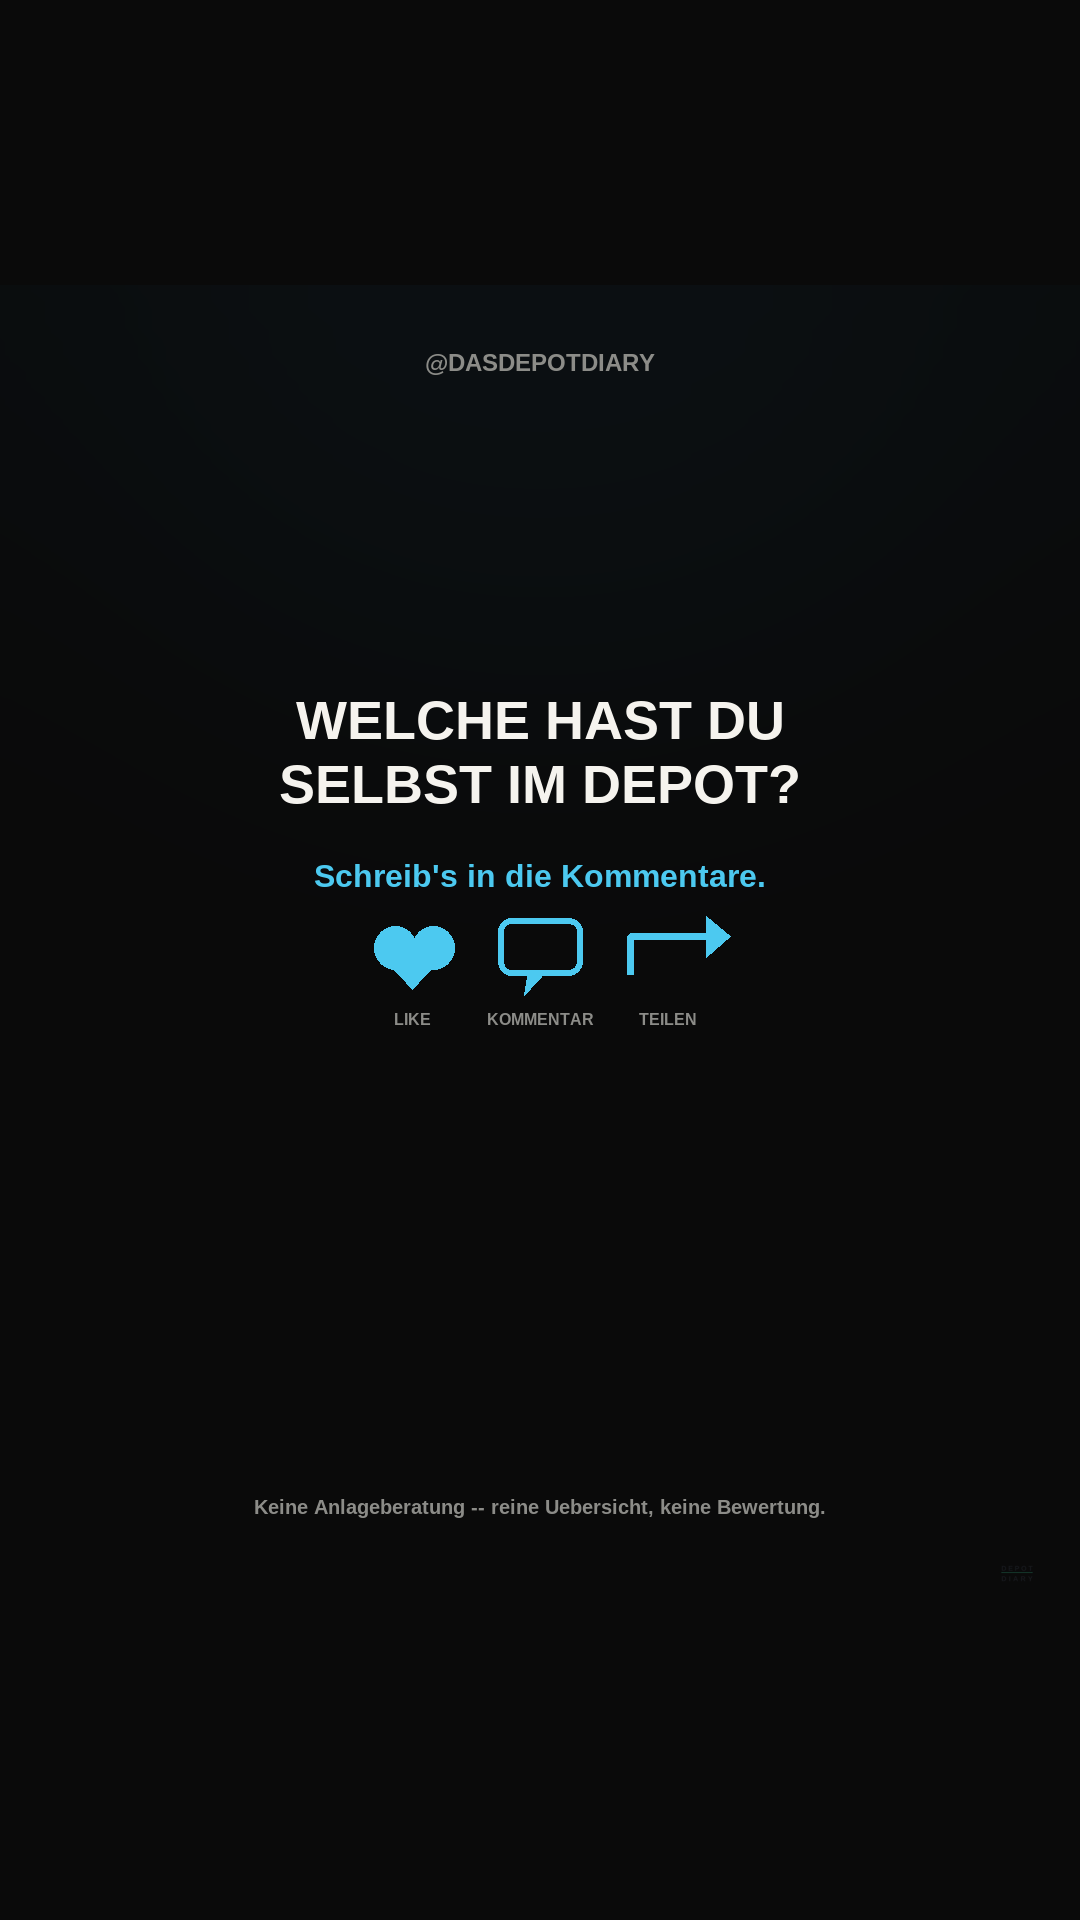
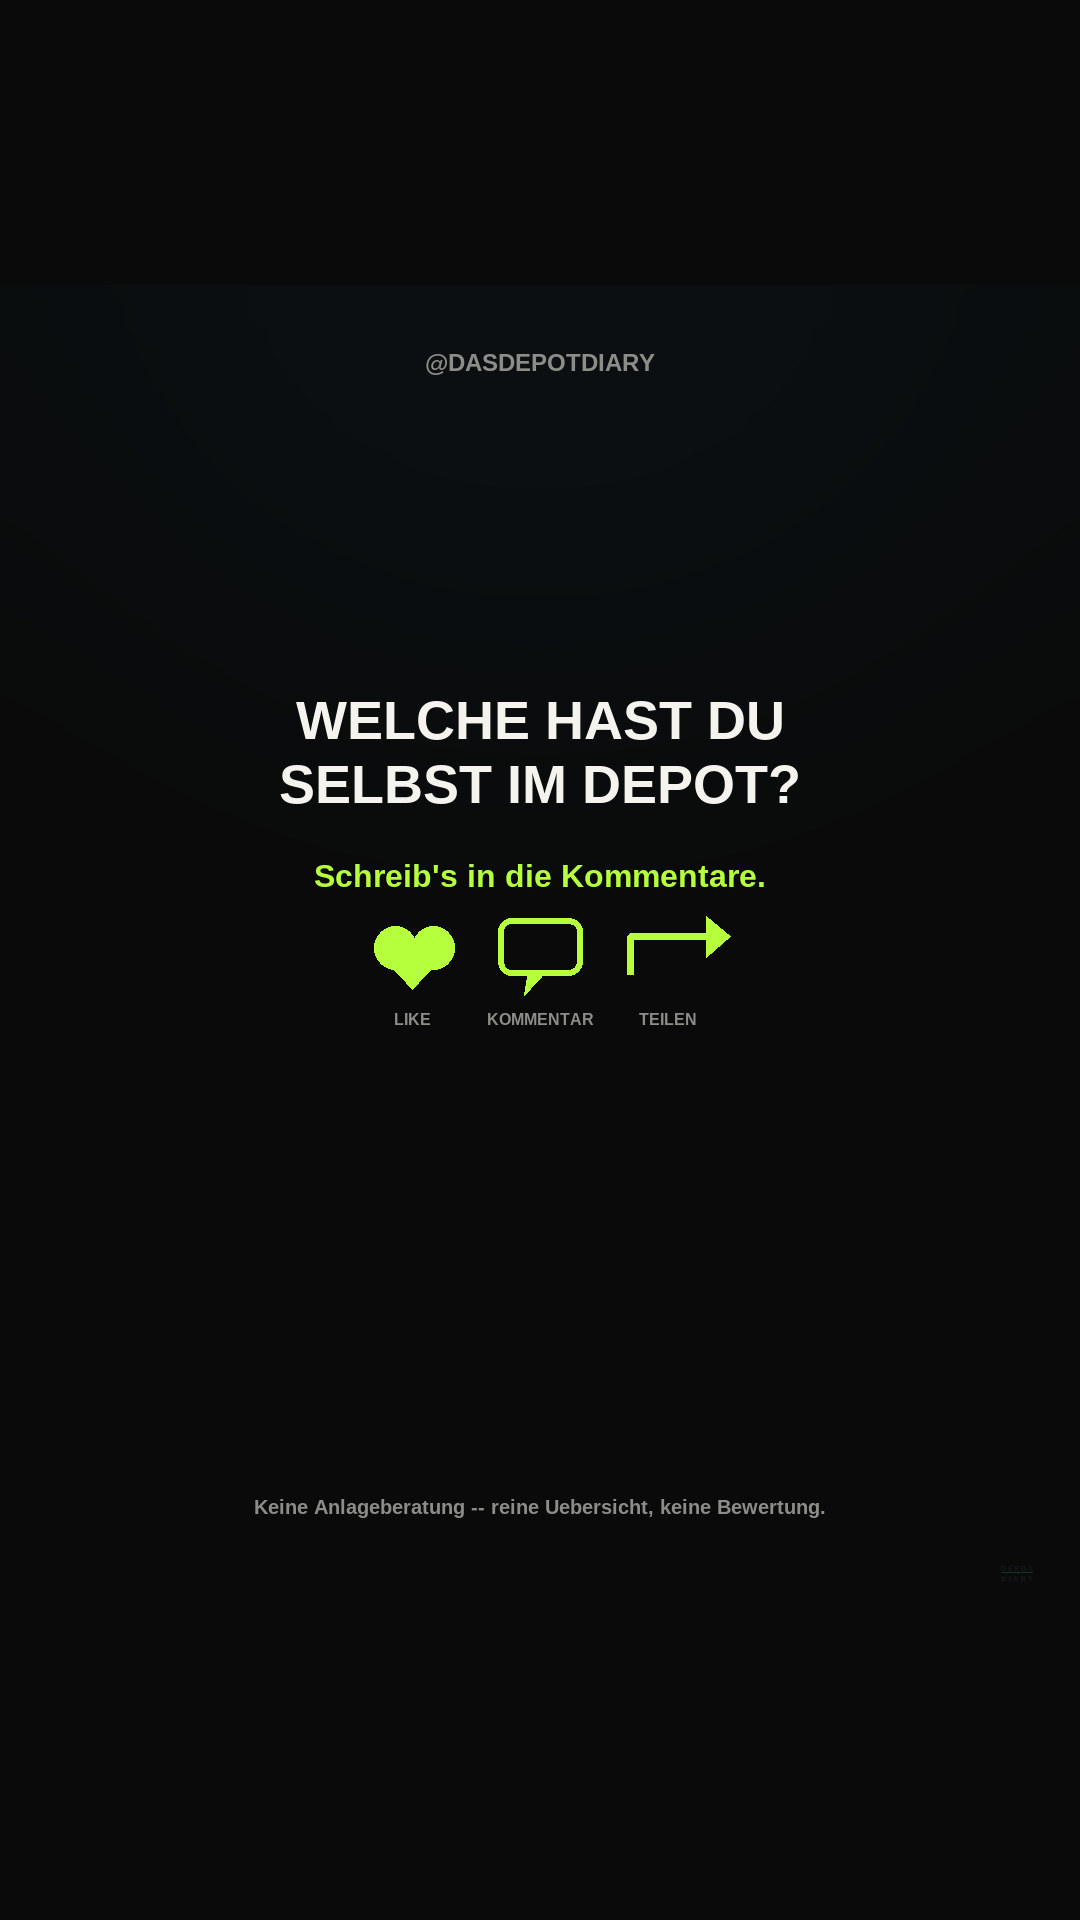
Akzentfarbe der Finanzhafen-Style-Titelfolien rotiert jetzt ebenfalls (5 grelle/kraeftige/helle Farben: Hellblau, Pink, Neongruen, Gelb, Violett), deterministisch per Post-Name -- gleiche Technik wie die Foto-Rotation. Alle vier Entwuerfe neu gerendert (KI-Infrastruktur ist fuer morgen 17 Uhr gequeu

Changed region(s): [[0.275, 0.4375, 0.7028, 0.5312]]

diff --git a/posts/format_wochenlogos.py b/posts/format_wochenlogos.py
@@ -45,7 +45,26 @@ CARD = "#161616"
 CARD_BORDER = "#2C2C2C"
 CREAM = "#F5F3EE"
 MUTED = "#8C8C88"
-ACCENT = "#4CC9F0"
+ACCENT = "#4CC9F0"  # Fallback/Default, siehe ACCENT_COLORS fuer die Rotation
+
+# Rotierender Pool greller, kraeftiger, heller Akzentfarben -- Nutzerwunsch:
+# "Farbe der Schrift auch jedes mal abaendern, grelle kraeftige helle Farben".
+# Deterministisch per Post-Name gewaehlt (siehe photo_for), nicht zufaellig.
+ACCENT_COLORS = [
+    "#4CC9F0",  # hellblau
+    "#FF3EA5",  # knalliges pink
+    "#B6FF3D",  # neongruen
+    "#FFDD3D",  # kraeftiges gelb
+    "#7B5CFF",  # kraeftiges violett
+]
+
+_active_accent = ACCENT
+
+
+def accent_for(name):
+    import hashlib
+    digest = hashlib.md5((name + "-accent").encode("utf-8")).hexdigest()
+    return ACCENT_COLORS[int(digest, 16) % len(ACCENT_COLORS)]
 
 OWN_HANDLE = "@DASDEPOTDIARY"
 WORDMARK = ROOT / "assets" / "logo_depotdiary_stacked_transparent.png"
@@ -162,7 +181,7 @@ def slide_hook(week_label, n_stocks, label="DIESE WOCHE", headline_lines=None, s
 
     y = H * 0.60
     label_font = font(B.SANS_BOLD, 28)
-    draw.text((80, y), label, font=label_font, fill=ACCENT)
+    draw.text((80, y), label, font=label_font, fill=_active_accent)
     y += 58
 
     title_font = font(B.SANS_BOLD, 88)
@@ -270,7 +289,7 @@ def draw_info_grid_slide(stocks, page_label):
         text_top = cy - r
         draw.text((text_x, text_top), f"{s['name']}  ", font=name_font, fill=CREAM)
         nm_w = draw.textlength(s["name"] + "  ", font=name_font)
-        draw.text((text_x + nm_w, text_top + 4), s["ticker"], font=ticker_font, fill=ACCENT)
+        draw.text((text_x + nm_w, text_top + 4), s["ticker"], font=ticker_font, fill=_active_accent)
         info = s.get("info", "")
         if info:
             for j, line in enumerate(wrap_text(draw, info, info_font, right - text_x)):
@@ -322,16 +341,16 @@ def slide_cta(question_lines=None, cta_text="Schreib's in die Kommentare."):
     cta_font = font(B.SANS_BOLD, 32)
     cta = cta_text
     tw = draw.textlength(cta, font=cta_font)
-    draw.text((W / 2 - tw / 2, y), cta, font=cta_font, fill=ACCENT)
+    draw.text((W / 2 - tw / 2, y), cta, font=cta_font, fill=_active_accent)
 
     y += 90
     icon_size = 76
     gap = 128
     total_w = 3 * icon_size + 2 * (gap - icon_size)
     start_x = W / 2 - total_w / 2 + icon_size / 2
-    draw_heart_icon(draw, start_x, y, icon_size, ACCENT)
-    draw_comment_icon(draw, start_x + gap, y, icon_size, ACCENT)
-    draw_share_icon(draw, start_x + 2 * gap, y, icon_size, ACCENT)
+    draw_heart_icon(draw, start_x, y, icon_size, _active_accent)
+    draw_comment_icon(draw, start_x + gap, y, icon_size, _active_accent)
+    draw_share_icon(draw, start_x + 2 * gap, y, icon_size, _active_accent)
     label_font = font(B.SANS_BOLD, 16)
     for i, label in enumerate(["LIKE", "KOMMENTAR", "TEILEN"]):
         lw = draw.textlength(label, font=label_font)
@@ -349,6 +368,8 @@ def slide_cta(question_lines=None, cta_text="Schreib's in die Kommentare."):
 def build(name, week_label, stocks, hook_label="DIESE WOCHE", headline_lines=None,
           sub_text=None, cta_question_lines=None, cta_text="Schreib's in die Kommentare.",
           grid_label="DIE AKTIEN", layout="circles"):
+    global _active_accent
+    _active_accent = accent_for(name)
     output, ig_dir, tt_dir = paths_for(name)
 
     slides = [slide_hook(week_label, len(stocks), label=hook_label,
